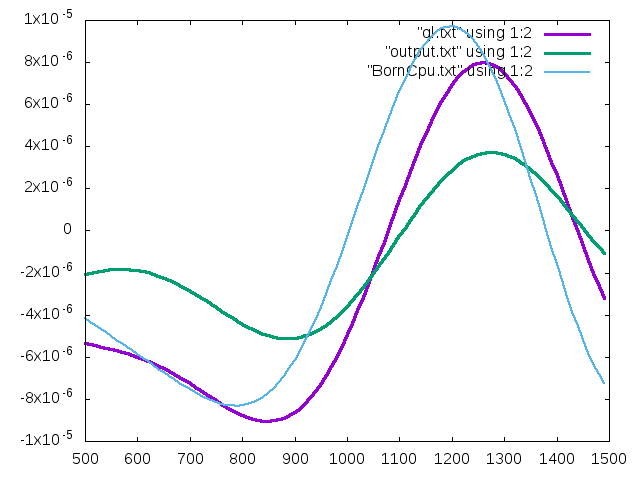
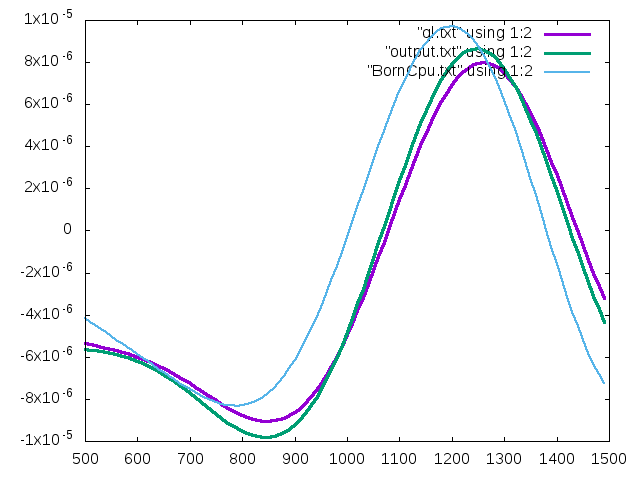
added time and size comparation

diff --git a/InputData.cpp b/InputData.cpp
@@ -3,6 +3,7 @@
 #include "DataLoader.h"
 #include "SharedDeclarations.h"
 
+
 const int SOURCE_POS_WORLD_X = 0,
           SOURCE_POS_WORLD_Y = 0,
           SOURCE_POS_WORLD_Z = 0;
@@ -15,9 +16,10 @@ const double ANOMALY_SIZE_WORLD_X = 300,
              ANOMALY_SIZE_WORLD_Y = 300,
              ANOMALY_SIZE_WORLD_Z = 300;
 
-const double DISCRETIZATION_NX = 200,
-             DISCRETIZATION_NY = 200,
-             DISCRETIZATION_NZ = 200;
+int    DISCR_N = 10;
+double DISCRETIZATION_NX = DISCR_N,
+             DISCRETIZATION_NY = DISCR_N,
+             DISCRETIZATION_NZ = DISCR_N;
 
 const double RECEIVER_X_BEGIN_WORLD = 500,
              RECEIVER_X_END_WORLD   = 1500,
@@ -34,7 +36,7 @@ const double ALPHA = 0.5;
 File format: binary
 double3             source              x, y, z     in physical space
 double              frequency                       in Hz
-double              c                               
+double              c
 double3             anomalyBegin        x, y, z     in physical space
 double3             anomalySize         x, y, z     in physical space
 int3                discretizationSize  x, y, z
@@ -44,64 +46,79 @@ double3[Nreceivers] receiverCoords      x, y, z     in physical space
 */
 //---------------------------------------------------------------------
 
+#define print(x) printf x
+
 int main ()
 {
+    FILE* readData = fopen ("size.ini", "r");
+    if (readData)
+    {
+        int read_size = 0;
+	fscanf (readData, "%d", &read_size);
+	fclose (readData);
+	DISCRETIZATION_NX = 
+		DISCRETIZATION_NY = 
+		DISCRETIZATION_NZ = read_size;
+    }
+
+
+
     FILE* inputData = fopen (INPUT_FILE, "wb");
-    
-    double coords[3] = {SOURCE_POS_WORLD_X, 
-                        SOURCE_POS_WORLD_Y, 
+
+    double coords[3] = {SOURCE_POS_WORLD_X,
+                        SOURCE_POS_WORLD_Y,
                         SOURCE_POS_WORLD_Z};
     fwrite (coords, sizeof (double), 3, inputData);
-    printf ("coords %g %g %g\n", 
-            coords[0], 
-            coords[1], 
-            coords[2]);
-    
+    print (("coords %g %g %g\n",
+            coords[0],
+            coords[1],
+            coords[2]));
+
     double data[2] = {FREQUENCY, SOUND_SPEED};
     fwrite (data, sizeof (double), 2, inputData);
-    printf ("data %g %g\n", 
-            data[0], 
-            data[1]);
+    print(("data %g %g\n",
+            data[0],
+            data[1]));
 
-    double anomalyData[3] = {ANOMALY_POS_WORLD_X, 
-                             ANOMALY_POS_WORLD_Y, 
+    double anomalyData[3] = {ANOMALY_POS_WORLD_X,
+                             ANOMALY_POS_WORLD_Y,
                              ANOMALY_POS_WORLD_Z};
     fwrite (anomalyData, sizeof (double), 3, inputData);
-    printf ("anomalyData %g %g %g\n", 
-            anomalyData[0], 
-            anomalyData[1], 
-            anomalyData[2]);
-    
-    double anomalySize[3] = {ANOMALY_SIZE_WORLD_X, 
-                             ANOMALY_SIZE_WORLD_Y, 
+    print(("anomalyData %g %g %g\n",
+            anomalyData[0],
+            anomalyData[1],
+            anomalyData[2]));
+
+    double anomalySize[3] = {ANOMALY_SIZE_WORLD_X,
+                             ANOMALY_SIZE_WORLD_Y,
                              ANOMALY_SIZE_WORLD_Z};
     fwrite (anomalySize, sizeof (double), 3, inputData);
-    printf ("anomalySize %g %g %g\n", 
-            anomalySize[0], 
-            anomalySize[1], 
-            anomalySize[2]);
+    print(("anomalySize %g %g %g\n",
+            anomalySize[0],
+            anomalySize[1],
+            anomalySize[2]));
 
     int discretizationRatio[3] = {DISCRETIZATION_NX,
                                   DISCRETIZATION_NY,
                                   DISCRETIZATION_NZ};
-    
+
     fwrite (&discretizationRatio, sizeof (int), 3, inputData);
-    printf ("discretizationRatio %d %d %d\n", 
-            discretizationRatio[0], 
-            discretizationRatio[1], 
-            discretizationRatio[2]);
-    
+    print(("discretizationRatio %d %d %d\n",
+            discretizationRatio[0],
+            discretizationRatio[1],
+            discretizationRatio[2]));
+
     int discrete_size[3] = {ANOMALY_SIZE_WORLD_X/DISCRETIZATION_NX,
                             ANOMALY_SIZE_WORLD_Y/DISCRETIZATION_NY,
                             ANOMALY_SIZE_WORLD_Z/DISCRETIZATION_NZ};
 
-    printf ("discrete_size %d %d %d\n", 
-            discrete_size[0], 
-            discrete_size[1], 
-            discrete_size[2]);
+    print(("discrete_size %d %d %d\n",
+            discrete_size[0],
+            discrete_size[1],
+            discrete_size[2]));
 
     double* ds2 = new double [discretizationRatio[0]*discretizationRatio[1]*discretizationRatio[2]];
-    
+
     double deltaS2 = 1.0/(SOUND_SPEED*SOUND_SPEED)*
                     (1.0/((1+ALPHA)*(1+ALPHA)) - 1.0);
     for (int x = 0; x < discretizationRatio[0]; x++)
@@ -110,24 +127,24 @@ int main ()
         {
             for (int z = 0; z < discretizationRatio[2]; z++)
             {
-                ds2[x + 
-                    y*discretizationRatio[1] + 
+                ds2[x +
+                    y*discretizationRatio[1] +
                     z*discretizationRatio[1]*discretizationRatio[2]] = deltaS2;
             }
         }
     }
 
-    printf ("ds2 %g\n", ds2[411]);
+    print(("ds2 %g\n", ds2[411]));
 
     fwrite (ds2, sizeof (double), discretizationRatio[0]*discretizationRatio[1]*discretizationRatio[2], inputData);
 
 
     int Nreceivers = N_RECEIVERS;
-    
+
     fwrite (&Nreceivers, sizeof (int), 1, inputData);
-    printf ("Nreceivers %d\n", 
-            Nreceivers);
-    
+    print(("Nreceivers %d\n",
+            Nreceivers));
+
     double shift = (RECEIVER_X_END_WORLD - RECEIVER_X_BEGIN_WORLD)/(Nreceivers*1.0);
 
     for (int i = 0; i < Nreceivers; i++)
@@ -138,11 +155,13 @@ int main ()
         fwrite (coords_, sizeof (double), 3, inputData);
 
     }
-    
+
     fclose (inputData);
 
     delete [] ds2;
 
     return 0;
-    
+
 }
+
+#undef print

diff --git a/tester.cpp b/tester.cpp
@@ -1,0 +1,16 @@
+#include <stdio.h>
+#include <stdlib.h>
+
+int main ()
+{
+    for (int i = 2; i < 128; i++)
+    {
+        FILE* size_file = fopen ("size.ini", "w");
+	if (!size_file) return 1;
+	fprintf (size_file, "%d", i);
+	fclose (size_file);
+	system ("make r");
+    }
+
+    return 0;
+}
